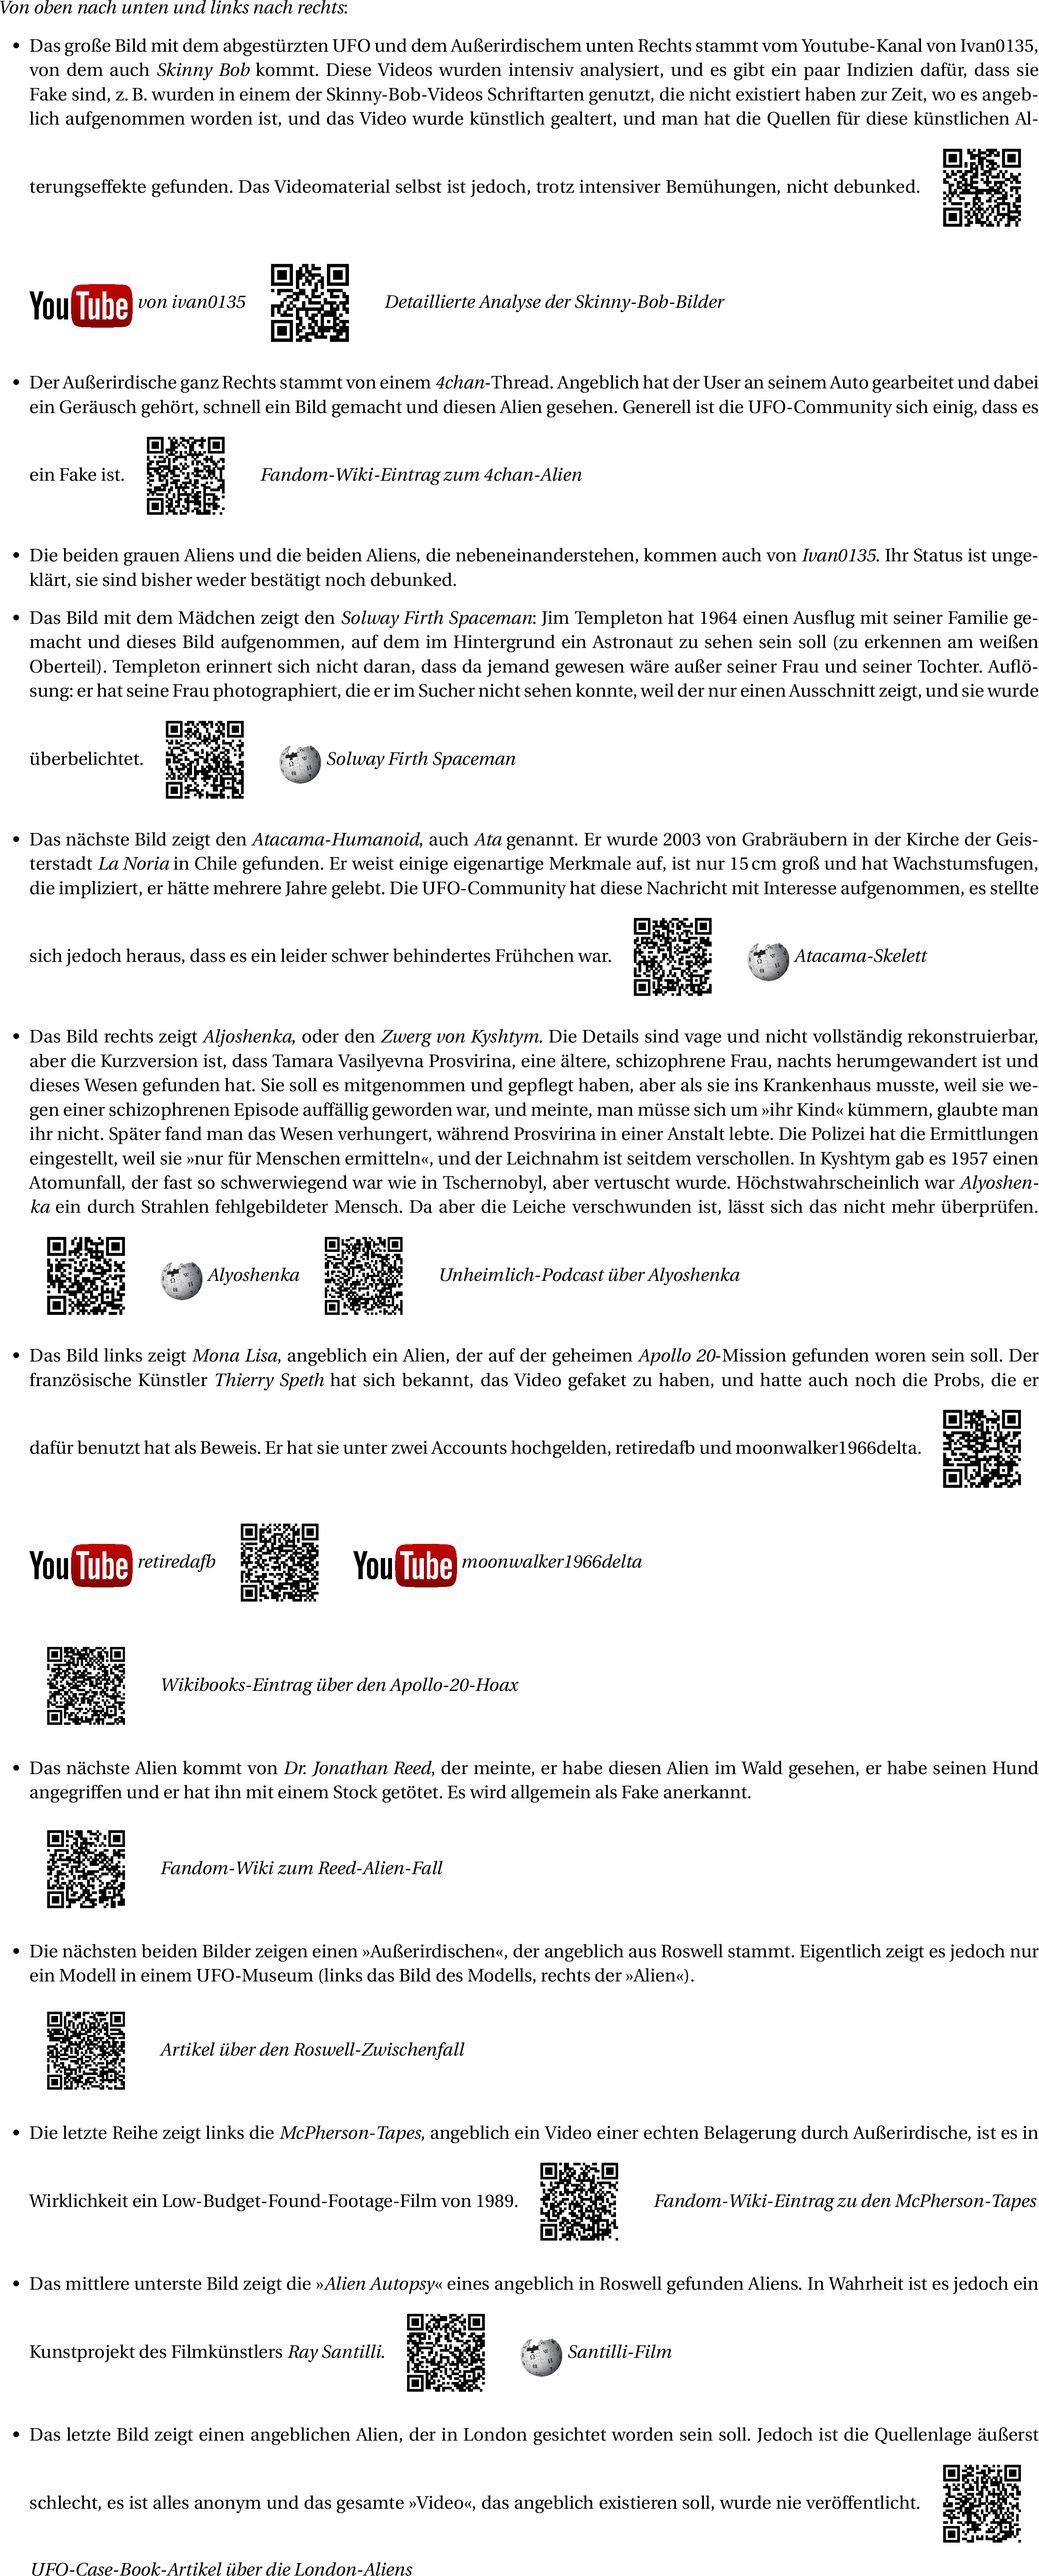
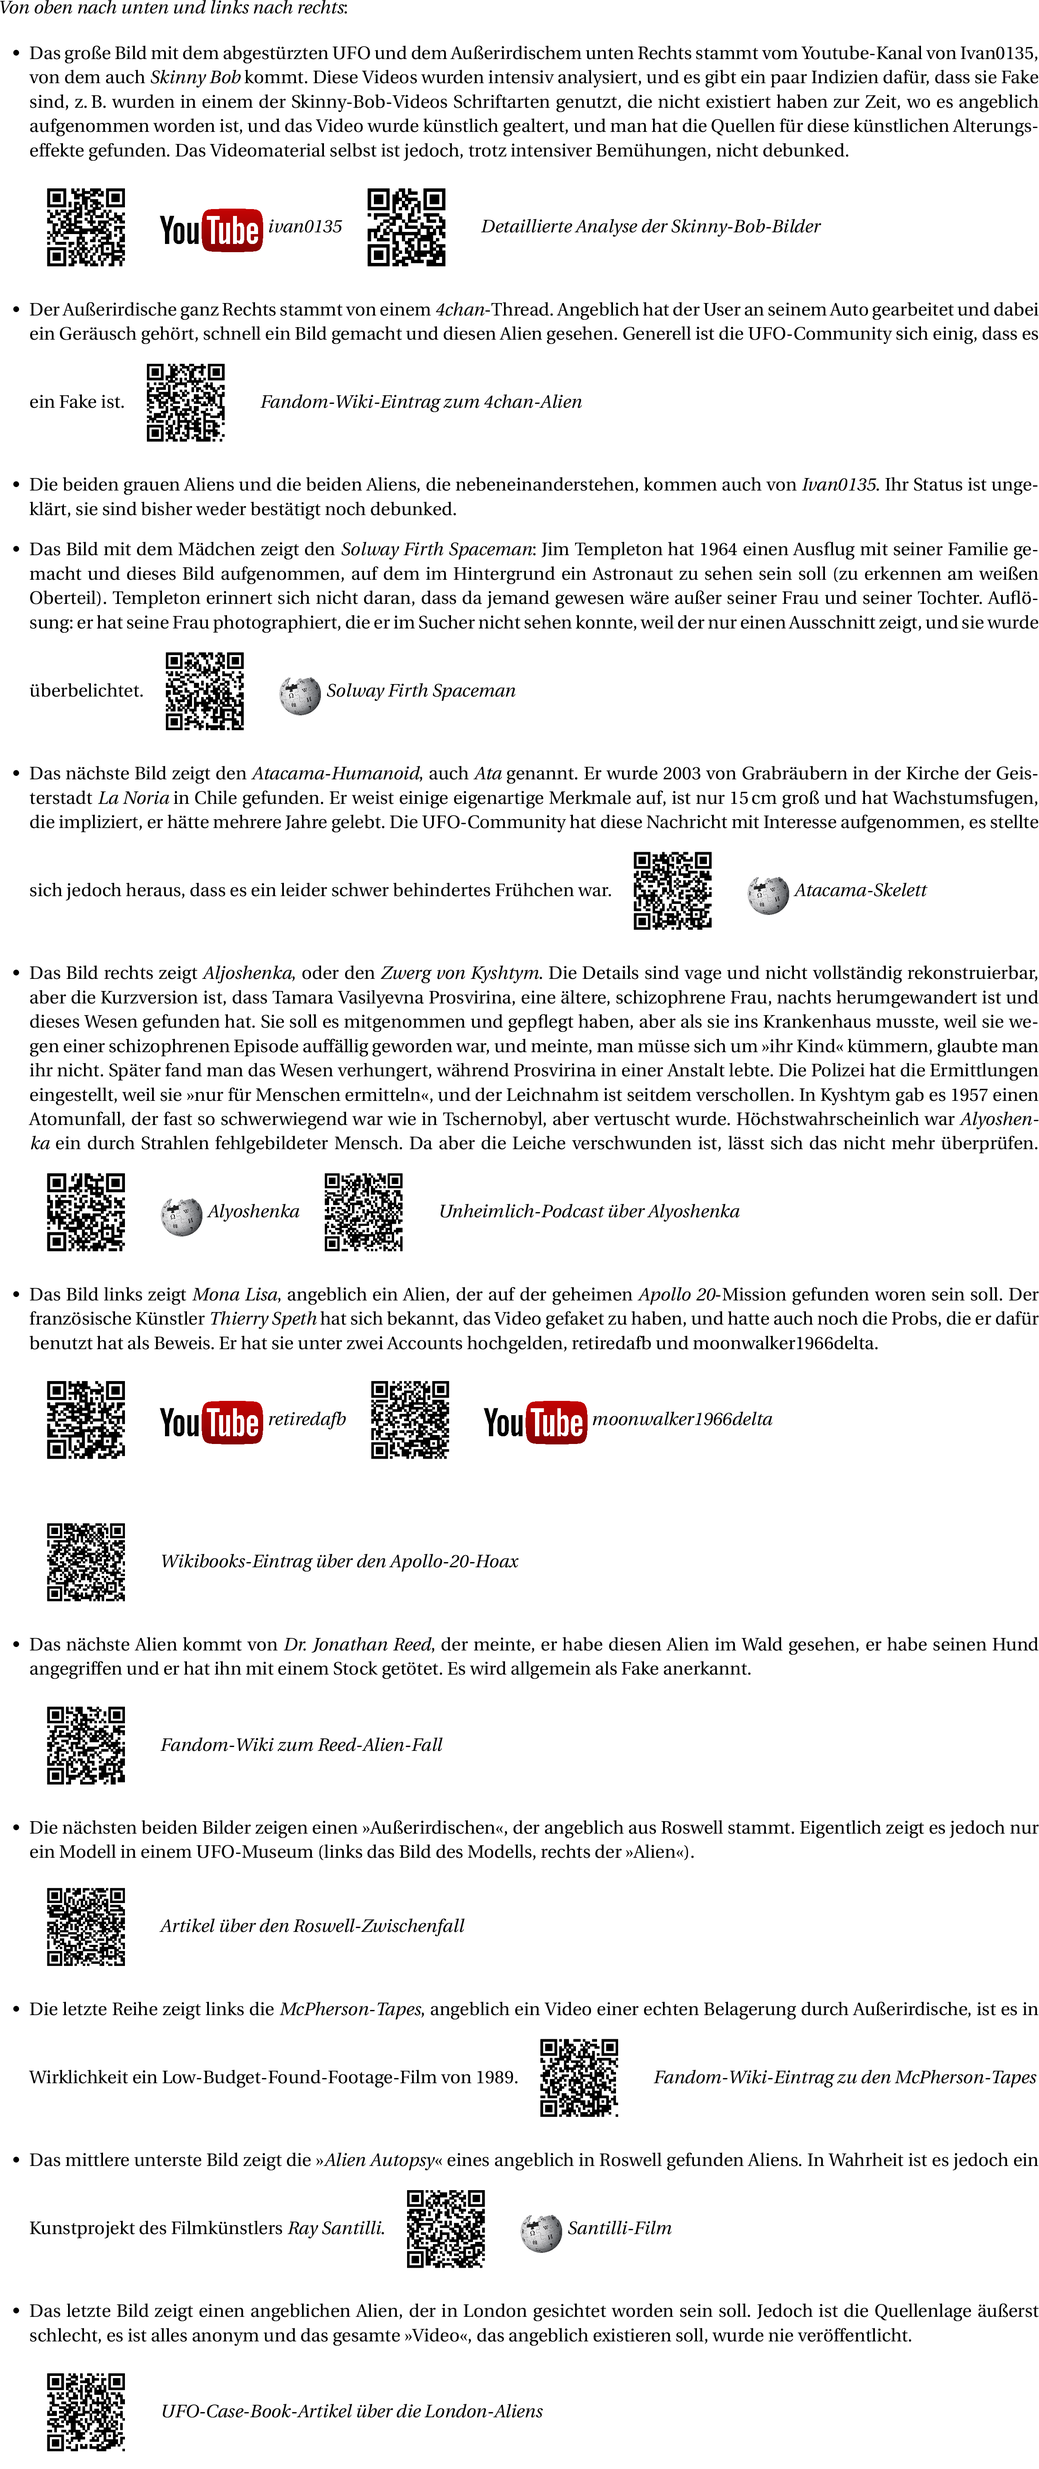
fix

diff --git a/poster/01/01.tex b/poster/01/01.tex
@@ -12,13 +12,17 @@
 \textit{Von oben nach unten und links nach rechts}:
 
 \begin{itemize}
-	\item Das große Bild mit dem abgestürzten UFO und dem Außerirdischem unten Rechts stammt vom Youtube-Kanal von Ivan0135, von dem auch \textit{Skinny Bob} kommt. Diese Videos wurden intensiv analysiert, und es gibt ein paar Indizien dafür, dass sie Fake sind, z.\,B. wurden in einem der Skinny-Bob-Videos Schriftarten genutzt, die nicht existiert haben zur Zeit, wo es angeblich aufgenommen worden ist, und das Video wurde künstlich gealtert, und man hat die Quellen für diese künstlichen Alterungseffekte gefunden. Das Videomaterial selbst ist jedoch, trotz intensiver Bemühungen, nicht debunked. \qr[\youtube{} von ivan0135]{https://www.youtube.com/@ivan0135/} \qr[Detaillierte Analyse der Skinny-Bob-Bilder]{https://skinnybob.info/}	
+	\item Das große Bild mit dem abgestürzten UFO und dem Außerirdischem unten Rechts stammt vom Youtube-Kanal von Ivan0135, von dem auch \textit{Skinny Bob} kommt. Diese Videos wurden intensiv analysiert, und es gibt ein paar Indizien dafür, dass sie Fake sind, z.\,B. wurden in einem der Skinny-Bob-Videos Schriftarten genutzt, die nicht existiert haben zur Zeit, wo es angeblich aufgenommen worden ist, und das Video wurde künstlich gealtert, und man hat die Quellen für diese künstlichen Alterungseffekte gefunden. Das Videomaterial selbst ist jedoch, trotz intensiver Bemühungen, nicht debunked.
+
+		\qr[\youtube{} ivan0135]{https://www.youtube.com/@ivan0135/} \qr[Detaillierte Analyse der Skinny-Bob-Bilder]{https://skinnybob.info/}	
 	\item Der Außerirdische ganz Rechts stammt von einem \textit{4chan}-Thread. Angeblich hat der User an seinem Auto gearbeitet und dabei ein Geräusch gehört, schnell ein Bild gemacht und diesen Alien gesehen. Generell ist die UFO-Community sich einig, dass es ein Fake ist. \qr[Fandom-Wiki-Eintrag zum 4chan-Alien]{https://obscurban-legend.fandom.com/wiki/4chan_Grey_Alien}
 	\item Die beiden grauen Aliens und die beiden Aliens, die nebeneinanderstehen, kommen auch von \textit{Ivan0135}. Ihr Status ist ungeklärt, sie sind bisher weder bestätigt noch debunked.
 	\item Das Bild mit dem Mädchen zeigt den \textit{Solway Firth Spaceman}: Jim Templeton hat 1964 einen Ausflug mit seiner Familie gemacht und dieses Bild aufgenommen, auf dem im Hintergrund ein Astronaut zu sehen sein soll (zu erkennen am weißen Oberteil). Templeton erinnert sich nicht daran, dass da jemand gewesen wäre außer seiner Frau und seiner Tochter. Auflösung: er hat seine Frau photographiert, die er im Sucher nicht sehen konnte, weil der nur einen Ausschnitt zeigt, und sie wurde überbelichtet. \qr[\wikipedia{} Solway Firth Spaceman]{https://en.wikipedia.org/wiki/Solway_Firth_Spaceman}
 	\item Das nächste Bild zeigt den \textit{Atacama-Humanoid}, auch \textit{Ata} genannt. Er wurde 2003 von Grabräubern in der Kirche der Geisterstadt \textit{La Noria} in Chile gefunden. Er weist einige eigenartige Merkmale auf, ist nur 15\,cm groß und hat Wachstumsfugen, die impliziert, er hätte mehrere Jahre gelebt. Die UFO-Community hat diese Nachricht mit Interesse aufgenommen, es stellte sich jedoch heraus, dass es ein leider schwer behindertes Frühchen war. \qr[\wikipedia{} Atacama-Skelett]{https://de.wikipedia.org/wiki/Atacama-Skelett}
 	\item Das Bild rechts zeigt \textit{Aljoshenka}, oder den \textit{Zwerg von Kyshtym}. Die Details sind vage und nicht vollständig rekonstruierbar, aber die Kurzversion ist, dass Tamara Vasilyevna Prosvirina, eine ältere, schizophrene Frau, nachts herumgewandert ist und dieses Wesen gefunden hat. Sie soll es mitgenommen und gepflegt haben, aber als sie ins Krankenhaus musste, weil sie wegen einer schizophrenen Episode auffällig geworden war, und meinte, man müsse sich um \frqq ihr Kind\flqq\ kümmern, glaubte man ihr nicht. Später fand man das Wesen verhungert, während Prosvirina in einer Anstalt lebte. Die Polizei hat die Ermittlungen eingestellt, weil sie \frqq nur für Menschen ermitteln\flqq, und der Leichnahm ist seitdem verschollen. In Kyshtym gab es 1957 einen Atomunfall, der fast so schwerwiegend war wie in Tschernobyl, aber vertuscht wurde. Höchstwahrscheinlich war \textit{Alyoshenka} ein durch Strahlen fehlgebildeter Mensch. Da aber die Leiche verschwunden ist, lässt sich das nicht mehr überprüfen. \qr[\wikipedia{} Alyoshenka]{https://en.wikipedia.org/wiki/Alyoshenka} \qr[Unheimlich-Podcast über Alyoshenka]{https://www.unheimlichpodcast.de/mystery-podcast-ep04-das-baby-alyoshenka}
-	\item Das Bild links zeigt \textit{Mona Lisa}, angeblich ein Alien, der auf der geheimen \textit{Apollo 20}-Mission gefunden woren sein soll. Der französische Künstler \textit{Thierry Speth} hat sich bekannt, das Video gefaket zu haben, und hatte auch noch die Probs, die er dafür benutzt hat als Beweis. Er hat sie unter zwei Accounts hochgelden, retiredafb und moonwalker1966delta. \qr[\youtube{} retiredafb]{https://www.youtube.com/user/retiredafb} \qr[\youtube{} moonwalker1966delta]{https://www.youtube.com/@moonwalker1966delta/videos}
+	\item Das Bild links zeigt \textit{Mona Lisa}, angeblich ein Alien, der auf der geheimen \textit{Apollo 20}-Mission gefunden woren sein soll. Der französische Künstler \textit{Thierry Speth} hat sich bekannt, das Video gefaket zu haben, und hatte auch noch die Probs, die er dafür benutzt hat als Beweis. Er hat sie unter zwei Accounts hochgelden, retiredafb und moonwalker1966delta.
+
+		\qr[\youtube{} retiredafb]{https://www.youtube.com/user/retiredafb} \qr[\youtube{} moonwalker1966delta]{https://www.youtube.com/@moonwalker1966delta/videos}
 
 		\qr[Wikibooks-Eintrag über den Apollo-20-Hoax]{https://en.wikibooks.org/wiki/User:Moby-Dick4000/Apollo_20_hoax}
 	\item Das nächste Alien kommt von \textit{Dr. Jonathan Reed}, der meinte, er habe diesen Alien im Wald gesehen, er habe seinen Hund angegriffen und er hat ihn mit einem Stock getötet. Es wird allgemein als Fake anerkannt.
@@ -29,7 +33,9 @@
 		\qr[Artikel über den Roswell-Zwischenfall]{https://science.howstuffworks.com/space/aliens-ufos/history-roswell-incident.htm}
 	\item Die letzte Reihe zeigt links die \textit{McPherson-Tapes}, angeblich ein Video einer echten Belagerung durch Außerirdische, ist es in Wirklichkeit ein Low-Budget-Found-Footage-Film von 1989. \qr[Fandom-Wiki-Eintrag zu den McPherson-Tapes]{https://extraterrestrials.fandom.com/wiki/McPherson_Tape}
 	\item Das mittlere unterste Bild zeigt die \frqq\textit{Alien Autopsy}\flqq\ eines angeblich in Roswell gefunden Aliens. In Wahrheit ist es jedoch ein Kunstprojekt des Filmkünstlers \textit{Ray Santilli}. \qr[\wikipedia{} Santilli-Film]{https://de.wikipedia.org/wiki/Santilli-Film}
-	\item Das letzte Bild zeigt einen angeblichen Alien, der in London gesichtet worden sein soll. Jedoch ist die Quellenlage äußerst schlecht, es ist alles anonym und das gesamte \frqq Video\flqq, das angeblich existieren soll, wurde nie veröffentlicht. \qr[UFO-Case-Book-Artikel über die London-Aliens]{https://www.ufocasebook.com/londonaliens.html}
+	\item Das letzte Bild zeigt einen angeblichen Alien, der in London gesichtet worden sein soll. Jedoch ist die Quellenlage äußerst schlecht, es ist alles anonym und das gesamte \frqq Video\flqq, das angeblich existieren soll, wurde nie veröffentlicht.
+
+		\qr[UFO-Case-Book-Artikel über die London-Aliens]{https://www.ufocasebook.com/londonaliens.html}
 \end{itemize}
 
 \end{document}
